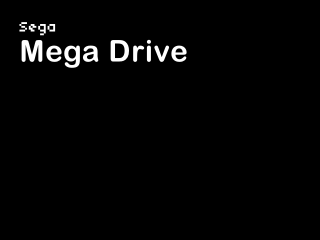
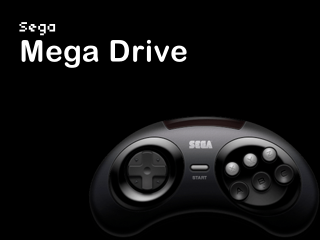
preview for clean theme added

Changed region(s): [[0.2812, 0.4667, 1.0, 0.875]]

diff --git a/README.md b/README.md
@@ -26,6 +26,7 @@ This is a collection of Themes you can install for your Odroid Go that is runnni
 | Comic Book | ![Comic Book](previews/comicbook.png)|
 | Noir | ![Noir](previews/noir.png)|
 | Pixel | ![Pixel](previews/pixel.png)|
+| Clean | ![Clean](previews/clean.png)|
 
 
 
